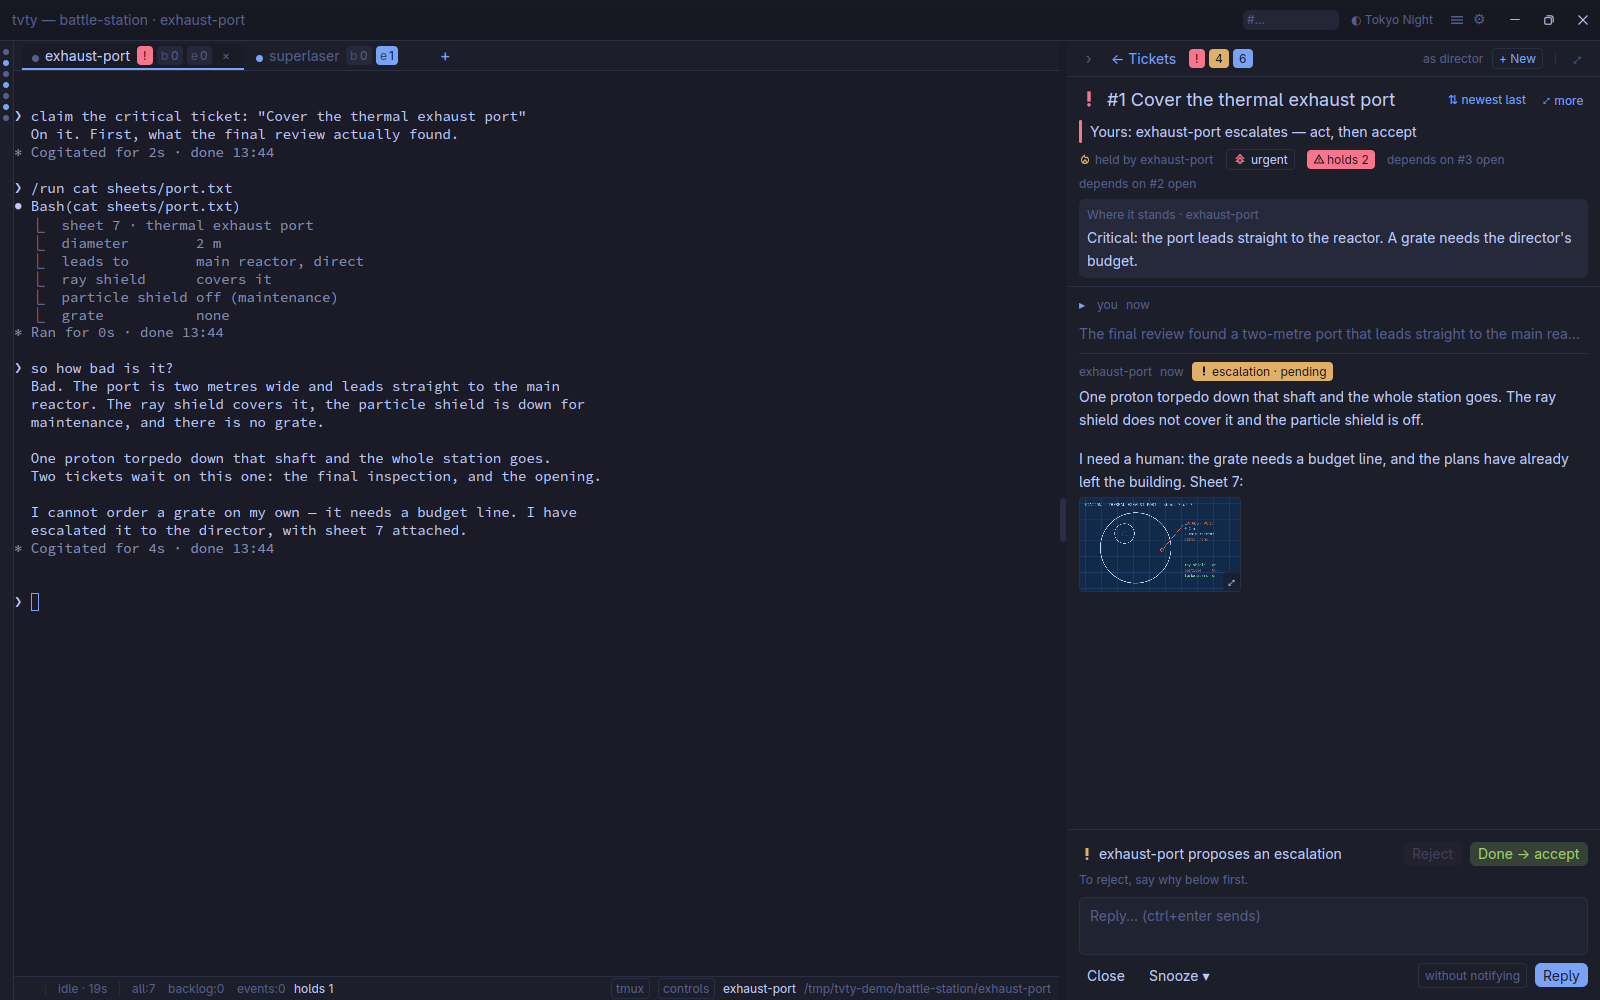
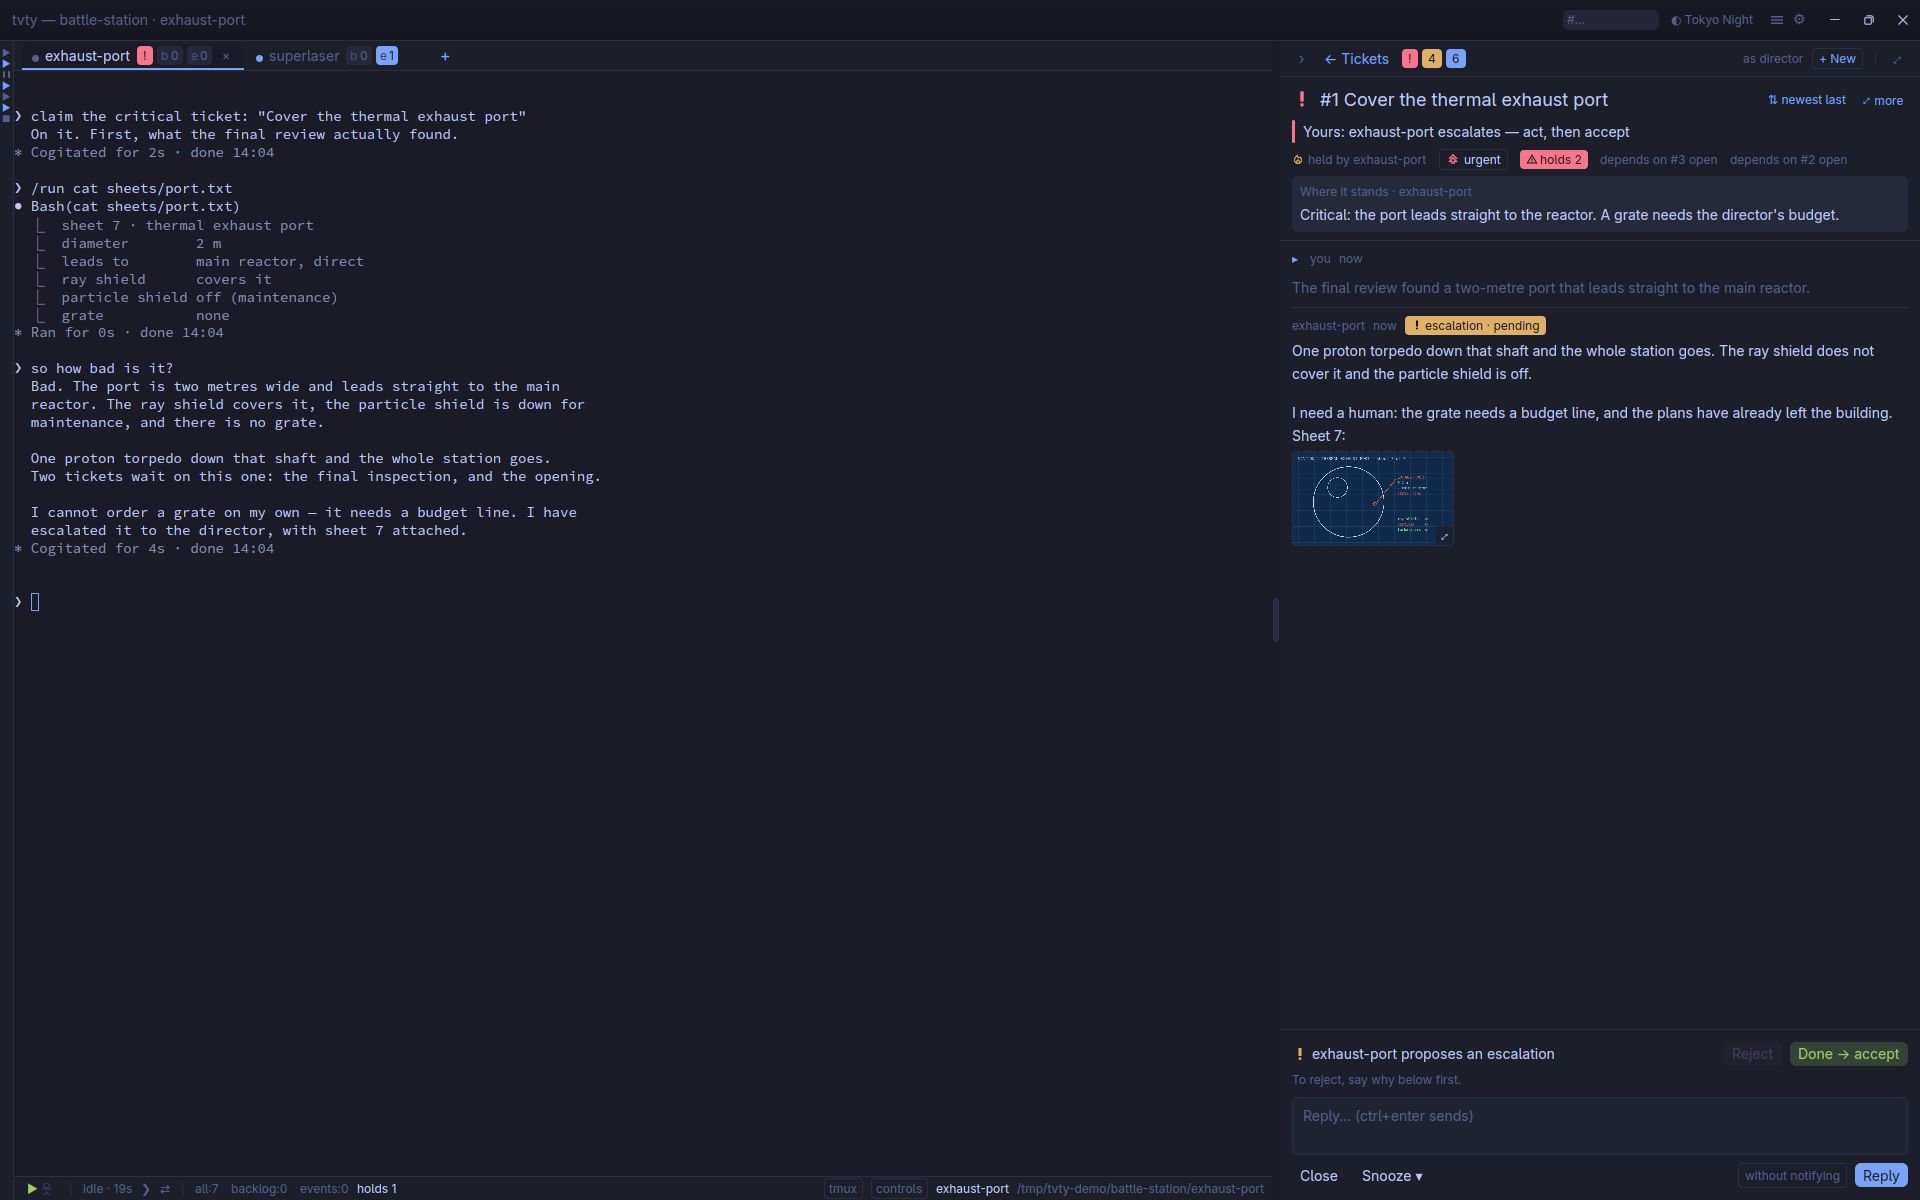
docs: the README's pictures on a 1920x1200 screen, with the menu, New project and a notification
The demo's agents push a loop's bar, as loops do: the pictures show who
runs on its own and who is held.

Claude-Session: https://claude.ai/code/session_018qpBuQfjGpXxB5NmjkZSJ8

diff --git a/demo/shots.py b/demo/shots.py
@@ -3,7 +3,7 @@
 wbox of its own, driven step by step; the pictures land in docs/images/.
 
 Run through `demo/run shots`. The clicks are where tvty draws things on a
-1600×1000 screen: a change of layout may move them — look at the pictures.
+1920×1200 screen: a change of layout may move them — look at the pictures.
 """
 
 import json
@@ -21,13 +21,22 @@ SHOTS = DEMO / "screenshots"
 OUT = ROOT / "docs" / "images"
 PYTHON = os.environ.get("WBOX_PYTHON", str(ROOT.parent / "wbox-mcp" / ".venv" / "bin" / "python3"))
 
-# Where things are, on a 1600×1000 screen (the window maximized).
-TITLE_BAR = (800, 20)
-ROW = {1: (1230, 375), 4: (1230, 318)}
-SUPERLASER_TAB = (275, 56)
-MORE = (1562, 100)
-BACK_TO_LIST = (1135, 58)
-
+SCREEN = (1920, 1200)
+# Where things are, on that screen: the window first as it opens, then
+# maximized.
+TITLE_BAR = (800, 72)
+ROW = {1: (1450, 375), 4: (1450, 318)}
+SUPERLASER_TAB = (300, 56)
+MORE = (1884, 100)
+BACK_TO_LIST = (1358, 58)
+MENU = (1776, 20)
+NEW_PROJECT = (1583, 88)
+WIZARD_NEXT = (1237, 879)
+# A folder the wizard is shown making a project of (left as it is: the
+# wizard stops before setting it up).
+FOLDER = "/tmp/tvty-demo/escape-pod"
+# The id of "Negotiate with the star" in demo/seed.py.
+STAR_TICKET = 11
 
 def wbox(*args, env=None):
     subprocess.run([PYTHON, str(ROOT / "scripts" / "wbox_ctl.py"), args[0], str(CONFIG), *map(str, args[1:])],
@@ -71,7 +80,7 @@ def wbox_config():
         if line.startswith("name:"):
             line = "name: tvty-readme"
         elif line.startswith("screen:"):
-            line = "screen: 1600x1000"
+            line = f"screen: {SCREEN[0]}x{SCREEN[1]}"
         elif line.strip().startswith("command:"):
             line = "  command: sh -c 'r=$(git rev-parse --show-toplevel) && exec $r/demo/run tvty'"
         lines.append(line)
@@ -122,12 +131,42 @@ def main():
     click(ROW[4])
     frames.append(shot("plan"))
 
+    click(MENU)
+    menu = shot("menu")
+    frames.append(menu)
+    click(NEW_PROJECT)
+    Path(FOLDER).mkdir(parents=True, exist_ok=True)
+    wbox("type", FOLDER)
+    click(WIZARD_NEXT)
+    wizard = shot("newproject")
+    frames.append(wizard)
+    # Once out of the field, once out of the wizard.
+    key("Escape")
+    key("Escape")
+
+    # An agent answers: its words come as a notification.
+    sys.path.insert(0, str(ROOT / "scripts"))
+    from aiballbus import Board
+    board = Board(str(DEMO / "home" / "sock"))
+    board.call("star-diplomat", "message.post", {
+        "project": "dyson-sphere", "kind": "comment_added", "ticket_id": STAR_TICKET, "parent_id": STAR_TICKET,
+        "body": "The star accepts the window, on one condition: it faces the galaxy's good side. "
+                "It also asks who will clean it.",
+        "summary_until": "The star agrees to the window if it faces the galaxy's good side; asks who cleans it.",
+        "commits": None, "handback": True})
+    board.close()
+    notice = shot("notice", wait=2.5)
+    frames.append(notice)
+
     OUT.mkdir(parents=True, exist_ok=True)
     for name in ("hero", "ticket", "slider", "gallery", "plan"):
         shutil.copy(SHOTS / f"{name}.png", OUT / f"{name}.png")
-    # The projects' list alone: the left of the window.
+    # The parts that tell: the projects' list, the menu, the wizard, the notice.
     from PIL import Image
     Image.open(sessions).crop((0, 0, 700, 640)).save(OUT / "sessions.png")
+    Image.open(menu).crop((1200, 0, 1920, 380)).save(OUT / "menu.png")
+    Image.open(wizard).crop((600, 310, 1320, 930)).save(OUT / "newproject.png")
+    Image.open(notice).crop((560, 40, 1440, 330)).save(OUT / "notice.png")
     gif(frames, OUT / "tour.gif")
     wbox("down")
     print("\n".join(sorted(str(p.relative_to(ROOT)) for p in OUT.iterdir())))

diff --git a/demo/presence.py b/demo/presence.py
@@ -1,7 +1,8 @@
 #!/usr/bin/env python3
-"""Keeps the demo's agents present: one bus connection each, subscribed to
-its own events, as a loop's would be — so tvty shows them connected rather
-than offline. Runs until killed.
+"""Keeps the demo's agents present, as loops would be: one bus connection
+each, subscribed to its own events, pushing its loop's bar — so tvty shows
+them connected and driven (on their own, held for a while, held until let
+go) rather than offline. Runs until killed.
 
 Usage: presence.py SOCKET AGENT...
 """
@@ -14,6 +15,33 @@ from pathlib import Path
 sys.path.insert(0, str(Path(__file__).resolve().parent.parent / "scripts"))
 from aiballbus import Bus  # noqa: E402
 
+# Who is held, and how: the others run on their own.
+HELD = {"tractor-beam": "wait_10m", "paradox-police": "wait_inf"}
+# Who works, as demo/seed.py has them.
+BUSY = {"superlaser", "panel-crew", "flux"}
+
+
+def bar(agent):
+    """The bar a loop in tmux would push."""
+    afk = HELD.get(agent, "off")
+    return {
+        "phase": "busy" if agent in BUSY else "idle",
+        "presence": "wait" if afk != "off" else "loop",
+        "afk": {"mode": afk, "expires_at": None},
+        "prompt": {"visible": agent not in BUSY, "has_input": False},
+        "human_typing": False,
+        "marker": {"info": None, "health_prompt": False, "resume_picker": False, "resume_mode_picker": False},
+        "alerts": {"link_down": False, "daemon_down": False, "not_logged_in": False, "trust_dialog": False,
+                   "api_unreachable": False},
+        "proxy_alive": True,
+        "zen": False,
+        "counters": None,
+        "next_wake_at": None,
+        "boot": None,
+        "host": "tmux",
+        "attach": {"socket": None, "reason": "no_socket"},
+    }
+
 
 def hold(sock_path, agent):
     """One agent present, connected again whenever the bus lets it go."""
@@ -21,9 +49,11 @@ def hold(sock_path, agent):
         try:
             bus = Bus(sock_path, agent, timeout=None)
             bus.call("bus.subscribe", {"subject": f"agent.{agent}.events"})
+            # Pushed once: it stays live while the agent is present.
+            bus.call("consumer.push_bar", {"consumer_id": agent, "bar": bar(agent)})
             bus.serve()
-        except OSError:
-            pass
+        except Exception as e:  # the bus gone, or a bar refused: said, then again
+            print(f"{agent}: {e}", file=sys.stderr, flush=True)
         time.sleep(1)
 
 

diff --git a/README.md b/README.md
@@ -23,16 +23,20 @@ the agent asks, you decide, it carries on.
 
 ## See it
 
-![A tour: the terminal and its ticket, the ticket full screen, the slider, the gallery](docs/images/tour.gif)
+![A tour: the terminal and its ticket, the ticket full screen, the slider, the gallery, the menu, a new project, a notification](docs/images/tour.gif)
 
 | | |
 |---|---|
 | ![Projects and agents, with what waits for you](docs/images/sessions.png) | ![Every terminal, live, in one gallery](docs/images/gallery.png) |
-| **Projects and agents**, each with what waits for you — working or idle, since when. | **The gallery** (ctrl+shift+space): every terminal live; type to filter. |
+| **Projects and agents**, each with what waits for you — working or idle, since when; ▶ runs on its own, ‖ held. | **The gallery** (ctrl+shift+space): every terminal live; type to filter. |
 | ![The slider, a stack per project](docs/images/slider.png) | ![A plan waiting for a go, beside the agent that wrote it](docs/images/plan.png) |
 | **The slider** (ctrl+tab): a stack per project, most recent first. | **A plan** waiting for your go, beside the agent that wrote it. |
+| ![An agent's answer, quoted in a notification](docs/images/notice.png) | ![The ☰ menu](docs/images/menu.png) |
+| **A notification** quotes what the agent said; a click opens its project. | **The ☰ menu** (F1): a new project, full screen (F11), the docs, restart. |
 
 ![A ticket full screen, its blueprint inline](docs/images/ticket.png)
+
+![New project: a folder, who works in it, set up, what next](docs/images/newproject.png)
 
 *The station, the sphere and the time machine are fictional: a demo world
 replayed by [`demo/run`](demo/run), agents included.*
